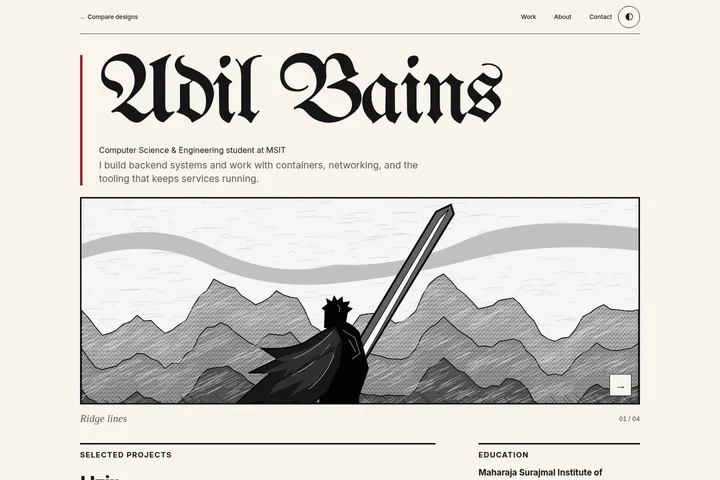
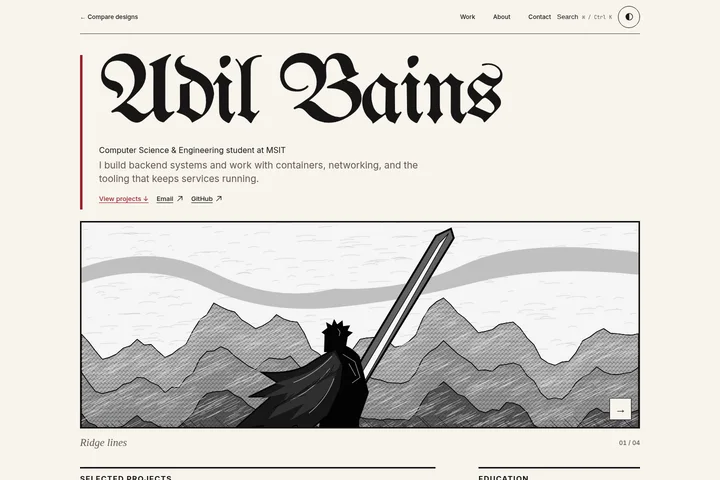
Add monochrome edition and project writeups

Changed region(s): [[0.0917, 0.4062, 0.8861, 1.0], [0.6417, 0.0312, 0.8556, 0.0625]]

diff --git a/src/designs/editions.css b/src/designs/editions.css
@@ -151,3 +151,77 @@
 }
 .manga [data-scene="Ridge lines"] img { object-position: 55% 12%; }
 .landscape [data-scene="Tower on a crag"] img { object-position: center top; }
+
+.skip-link { position: absolute; z-index: 5; top: 8px; left: 8px; padding: 8px 14px; background: var(--paper); }
+.skip-link:not(:focus) { clip-path: inset(50%); }
+.intro-links { display: flex; flex-wrap: wrap; gap: 0 16px; margin-top: 4px; font: 500 13px/1.3 var(--body); }
+.intro-links a, .case-source { display: inline-flex; align-items: center; gap: 5px; min-height: 44px; }
+.intro-links a:first-child { color: var(--accent); }
+.portfolio-search { min-height: 44px; white-space: nowrap; }
+.portfolio-search:hover { text-decoration: underline; }
+.portfolio-search kbd { color: var(--muted); margin-left: 4px; font-size: 10px; }
+.search-dialog {
+  width: min(calc(100% - 36px), 470px);
+  max-height: calc(100% - 36px);
+  padding: 18px;
+  border: 1px solid var(--rule);
+  color: var(--ink);
+  background: var(--paper);
+  font: 400 15px/1.4 var(--body);
+}
+.search-dialog::backdrop { background: rgb(0 0 0 / .58); }
+.search-heading { display: flex; justify-content: space-between; align-items: center; }
+.edition .search-heading h2 { margin: 0; }
+.search-heading button { width: 44px; height: 44px; font-size: 24px; }
+.search-dialog input { width: 100%; padding: 10px; min-height: 44px; margin: 6px 0; border: 1px solid var(--rule); color: var(--ink); background: var(--paper); font: inherit; }
+.search-dialog ul { list-style: none; margin: 0; padding: 0; }
+.search-dialog a { display: flex; align-items: center; justify-content: space-between; min-height: 44px; padding-inline: 6px; border-bottom: 1px solid var(--rule); text-decoration: none; }
+.search-dialog a:hover { text-decoration: underline; }
+.search-dialog p { padding: 10px 4px; }
+
+.monochrome {
+  --paper: #fcfcfc;
+  --ink: #141414;
+  --muted: #535353;
+  --rule: #b5b5b5;
+  --accent: #262626;
+  padding-inline: max(24px, (100% - 790px) / 2);
+  font: 400 17px/1.5 Inter, system-ui, sans-serif;
+}
+[data-theme="dark"] .monochrome {
+  --paper: #151515;
+  --ink: #f2f2f2;
+  --muted: #bcbcbc;
+  --rule: #686868;
+  --accent: #dedede;
+}
+.monochrome .edition-hero { padding-top: clamp(24px, 5vw, 53px); }
+.monochrome h1 { font: 700 clamp(51px, 10vw, 104px)/.91 Inter, system-ui, sans-serif; letter-spacing: -.09em; }
+.monochrome .edition-subtitle { font: 500 13px/1.4 "IBM Plex Mono", monospace; margin-top: 13px; }
+.monochrome .edition-title { margin-bottom: 15px; }
+.monochrome .banner-frame { min-height: 190px; aspect-ratio: 3.35; }
+.monochrome .scene img { filter: grayscale(1); }
+.monochrome .banner-caption { font: 400 12px/1.3 "IBM Plex Mono", monospace; }
+.monochrome .edition-body { gap: 24px 42px; }
+.monochrome h2 { font: 500 13px/1.3 "IBM Plex Mono", monospace; }
+.monochrome h3 { font-size: 20px; font-weight: 700; letter-spacing: -.035em; }
+
+.case-study { max-width: 710px; margin-inline: auto; padding-block: clamp(34px, 8vw, 105px); }
+.case-study h1 { font-size: clamp(52px, 11vw, 120px); overflow-wrap: anywhere; }
+.case-summary { margin-top: 14px; color: var(--muted); }
+.case-source { margin-top: 10px; font-size: .85em; }
+.case-content { margin-top: 22px; border-top: 1px solid var(--rule); }
+.case-content h2 { margin: 18px 0 7px; }
+.case-content p { font-size: .92em; line-height: 1.55; margin-bottom: 14px; }
+.comparison-list { grid-template-columns: repeat(2, minmax(0, 1fr)); }
+@media (max-width: 700px) {
+  .portfolio-search kbd { display: none; }
+  .edition-nav { gap: 7px; }
+  .edition-nav nav { gap: 8px; }
+  .comparison-link { max-width: 13ch; }
+  .comparison-list { grid-template-columns: minmax(0, 1fr); }
+}
+@media (max-width: 374px) {
+  .edition-nav { gap: 5px; font-size: 11px; }
+  .edition-nav nav { gap: 6px; }
+}

diff --git a/src/pages/profile.txt.ts b/src/pages/profile.txt.ts
@@ -1,0 +1,27 @@
+import { getCollection } from 'astro:content';
+import { hackathons, introduction, skills } from '../designs/profile';
+
+export async function GET() {
+  const projects = (await getCollection('projects')).sort((a, b) => a.data.order - b.data.order);
+  const profile = [
+    '# Adil Bains',
+    '',
+    introduction,
+    '',
+    'B.Tech. in Computer Science & Engineering, Maharaja Surajmal Institute of Technology',
+    '',
+    '## Projects',
+    ...projects.map(({ data }) => `- ${data.title}: ${data.description} ${data.url}`),
+    '',
+    '## Hackathons',
+    ...hackathons.map(({ project, event, result, description }) => `- ${project} (${event}, ${result}): ${description}`),
+    '',
+    '## Technical skills',
+    ...skills.map(({ label, value }) => `- ${label}: ${value}`),
+    '',
+    'Email: adilbains.work@gmail.com',
+    'GitHub: https://github.com/ADIBAINS',
+    '',
+  ].join('\n');
+  return new Response(profile, { headers: { 'Content-Type': 'text/plain; charset=utf-8' } });
+}

diff --git a/src/designs/editions.ts b/src/designs/editions.ts
@@ -9,6 +9,11 @@ export const editions = {
     description: 'An engraved plate, warm parchment, and gilded initials.',
     fonts: 'Cormorant+Garamond:ital,wght@0,500;0,600;0,700;1,500&family=Cinzel:wght@500;600',
   },
+  monochrome: {
+    name: 'Monochrome',
+    description: 'A compact profile and grayscale engravings, in light and dark.',
+    fonts: 'IBM+Plex+Mono:wght@400;500&family=Inter:wght@400;500;600;700',
+  },
   landscape: {
     name: 'Bleak landscape',
     description: 'A wide eclipse panorama above a narrow column of type.',

diff --git a/src/content/projects/uzip.md b/src/content/projects/uzip.md
@@ -6,3 +6,11 @@ order: 10
 stack: [Go, Kafka, Kubernetes, ClickHouse]
 detail: Uses Argo CD for deployments and Prometheus, Grafana, and Jaeger for observability.
 ---
+
+## How it works
+
+Four Go services handle URL shortening and analytics. Kafka separates click processing from the redirect path. PostgreSQL, ClickHouse, and Redis support the application's storage, analytics, and caching needs.
+
+## Deployment and monitoring
+
+The services are containerized and deployed to Kubernetes with Helm. GitHub Actions builds and tests the images, and Argo CD syncs them to the cluster. Prometheus and Grafana surface metrics, and Jaeger provides distributed traces.

diff --git a/src/content/projects/taskqueue.md b/src/content/projects/taskqueue.md
@@ -6,3 +6,11 @@ order: 20
 stack: [TypeScript, Kafka, Redis, Kubernetes, KEDA]
 detail: Built the queue without a queue library and scaled workers based on Redis queue depth.
 ---
+
+## How it works
+
+The priority scheduler uses a binary min-heap, and Redis holds delayed jobs. Workers use Lua-based locks for distributed coordination. Failed jobs retry with exponential backoff before moving to a dead-letter queue.
+
+## Scaling and delivery
+
+KEDA scales workers against Redis queue depth. The Jenkins pipeline runs lint checks and Jest tests, then builds the Docker images and deploys with Helm.

diff --git a/src/content/projects/travaasa.md b/src/content/projects/travaasa.md
@@ -6,3 +6,11 @@ order: 30
 stack: [Node.js, Express, MongoDB, Cloudinary]
 detail: Includes map-based search, property listings, bookings, and reviews.
 ---
+
+## Guest and host flows
+
+Hosts create and manage property listings. Guests can filter listings, browse them on a map, book stays, and leave reviews.
+
+## Application structure
+
+Express serves the application, MongoDB stores listings and bookings, and Cloudinary handles property image uploads.
